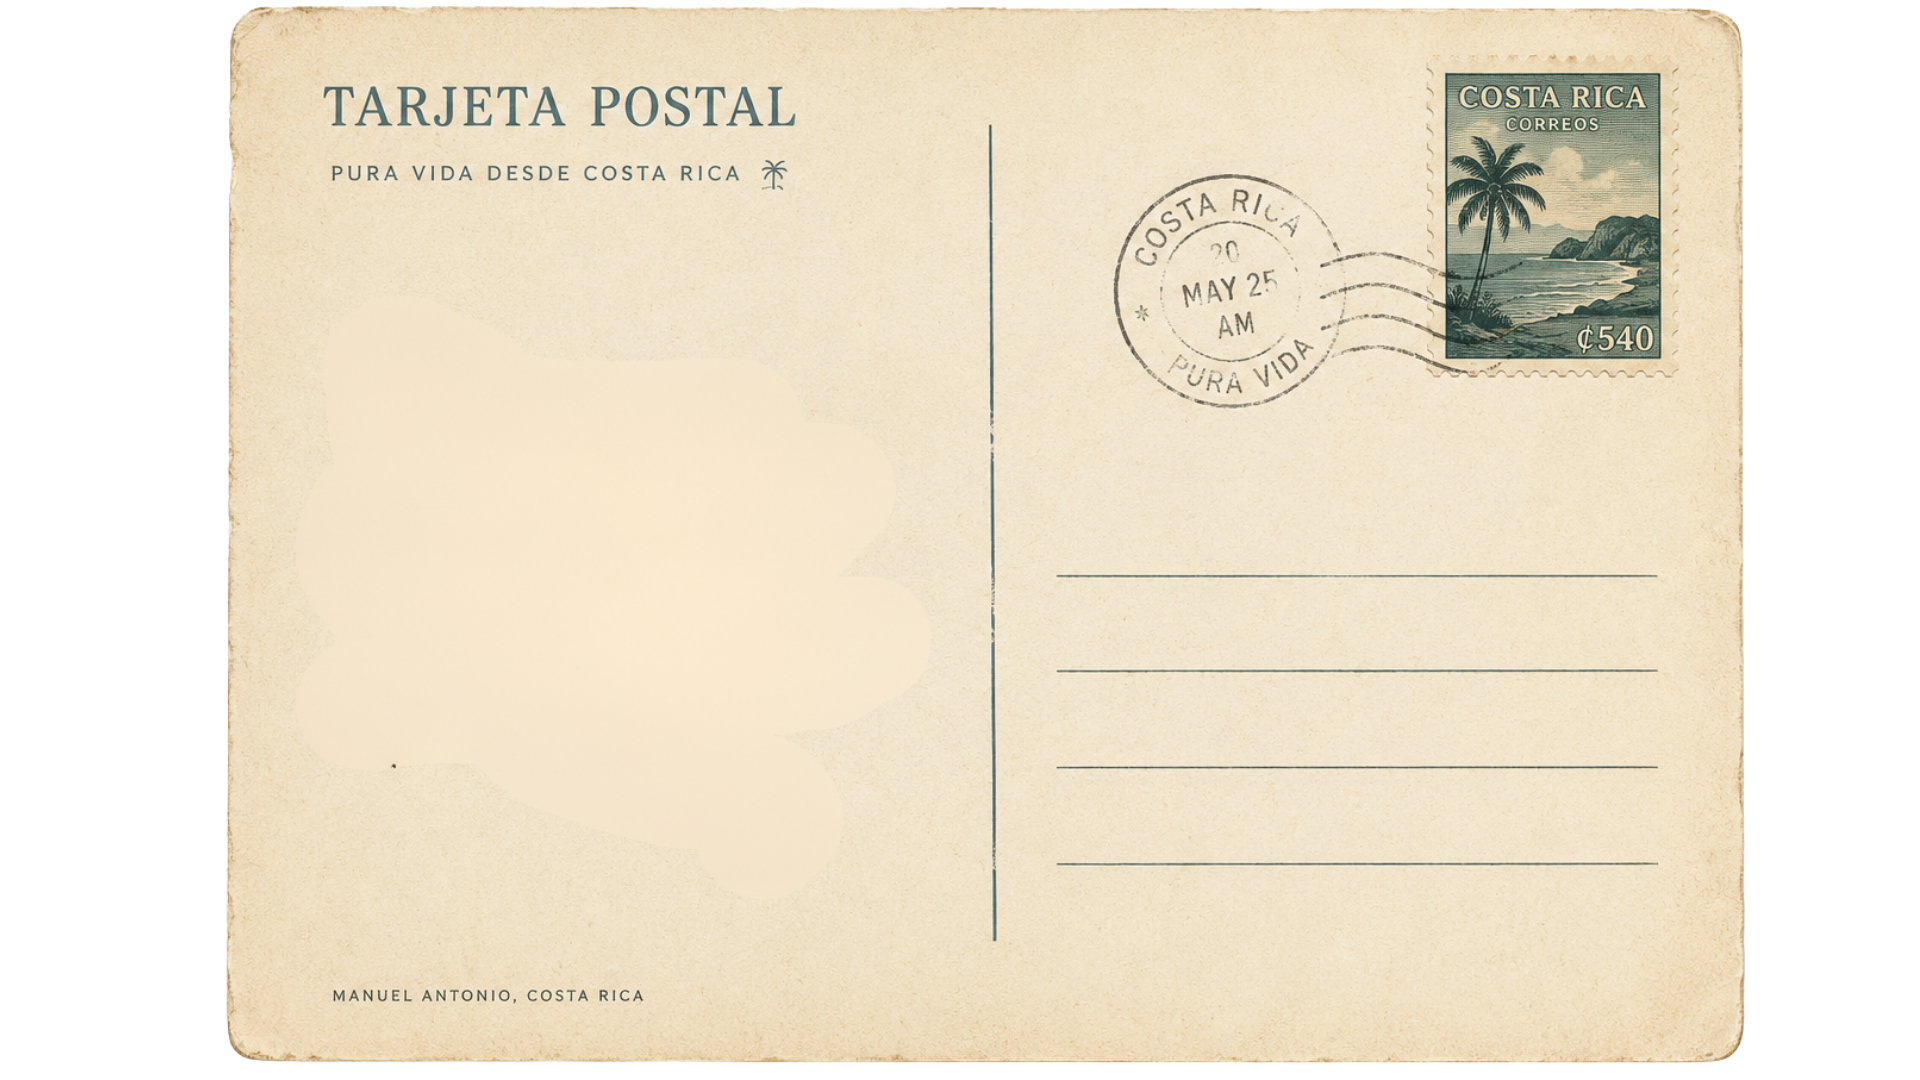
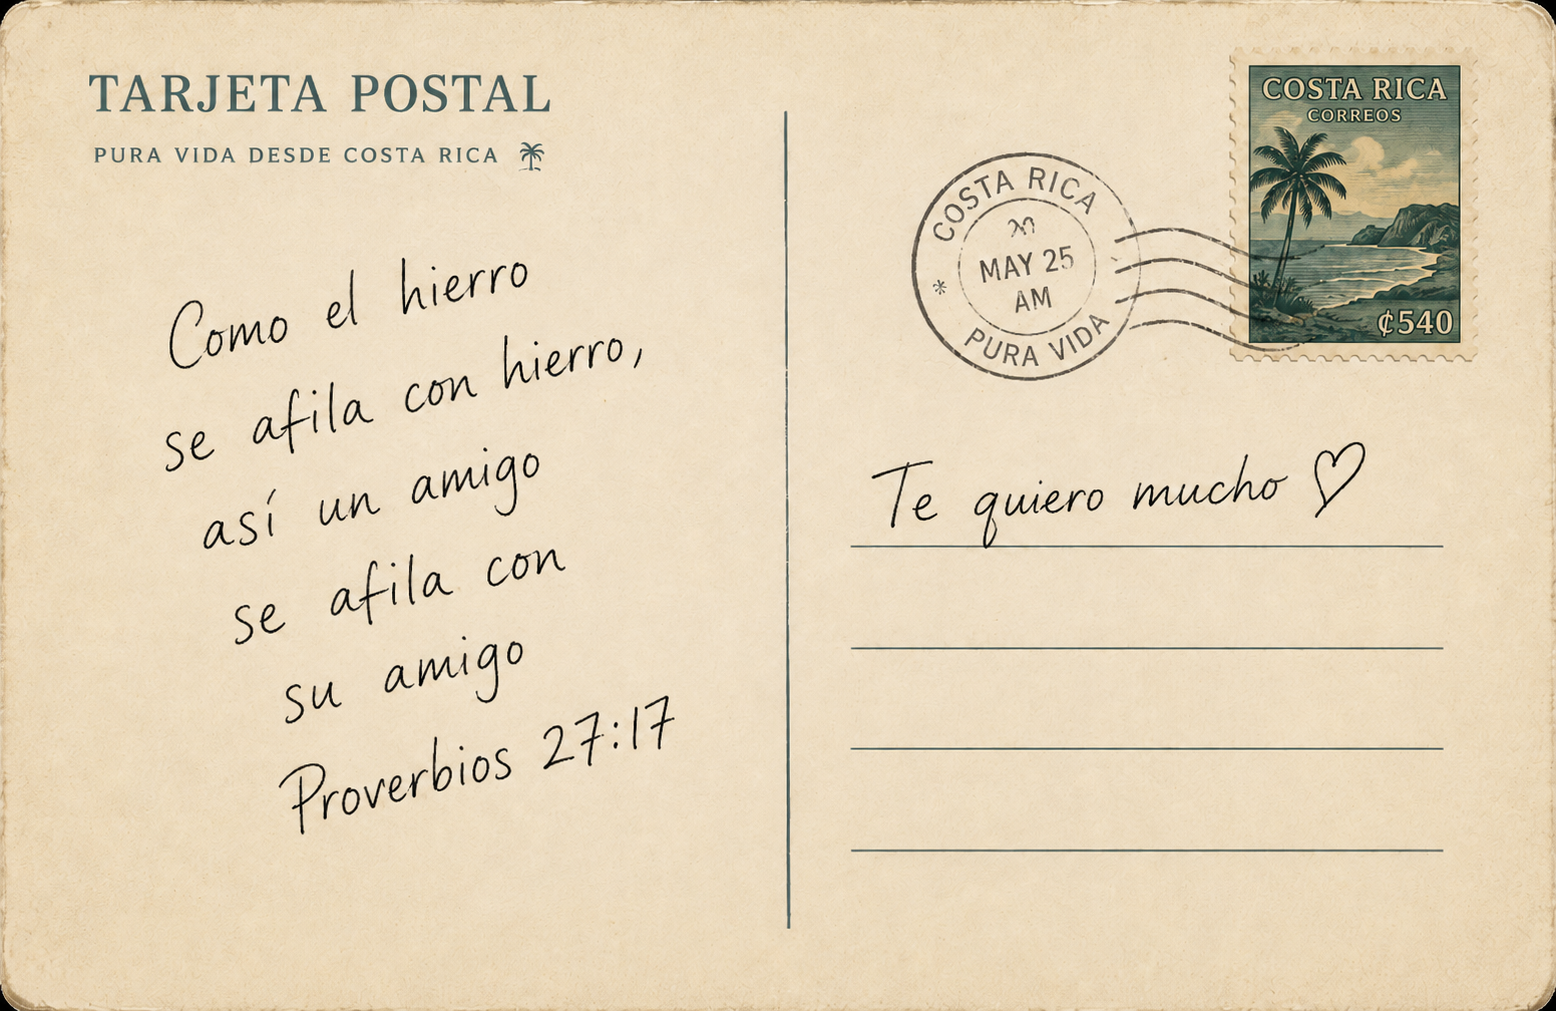
Add Costa Rica postcard backdrop and enable pinch zoom.
Layer a fixed travel background behind the flip card, place a signature on the reverse, and allow zoom while keeping only controls clickable.

diff --git a/src/styles/PostcardExperience.module.css b/src/styles/PostcardExperience.module.css
@@ -1,23 +1,60 @@
-.screen {
-  min-height: 100%;
+.postcardExperience {
+  position: relative;
+  width: 100%;
   height: 100%;
-  padding: 3.6rem 1.1rem 2rem;
+  min-height: 100%;
+  overflow: hidden;
+  isolation: isolate;
+  background: #2a3d36;
+}
+
+.postcardBackground {
+  position: absolute;
+  inset: 0;
+  z-index: 0;
+  width: 100%;
+  height: 100%;
+  object-fit: cover;
+  object-position: center bottom;
+  user-select: none;
+  pointer-events: none;
+  -webkit-user-drag: none;
+}
+
+.postcardGlow {
+  position: absolute;
+  inset: 0;
+  z-index: 0;
+  background:
+    radial-gradient(
+      circle at 50% 48%,
+      rgba(255, 247, 225, 0.3) 0%,
+      rgba(255, 247, 225, 0.13) 30%,
+      rgba(255, 247, 225, 0) 62%
+    );
+  pointer-events: none;
+}
+
+.postcardContent {
+  position: relative;
+  z-index: 1;
+  width: 100%;
+  height: 100%;
   display: flex;
-  flex-direction: column;
   align-items: center;
   justify-content: center;
-  background:
-    radial-gradient(ellipse at 30% 20%, rgba(197, 212, 200, 0.25), transparent 50%),
-    linear-gradient(180deg, #3a4f47 0%, #2a3d36 55%, #243430 100%);
-  position: relative;
-  overflow: hidden;
+  padding: 3.6rem 1.1rem 2rem;
 }
 
 .stage {
-  width: min(100%, 21rem);
+  width: min(94%, 460px);
   perspective: 1400px;
-  /* la sombra va aquí para no romper preserve-3d del flipper */
-  filter: drop-shadow(0 10px 22px rgba(10, 14, 12, 0.35));
+  /* sombra en el stage para no romper preserve-3d del flipper */
+  filter:
+    drop-shadow(0 2px 3px rgba(30, 38, 34, 0.18))
+    drop-shadow(0 10px 16px rgba(41, 53, 49, 0.22))
+    drop-shadow(0 22px 34px rgba(41, 53, 49, 0.28))
+    drop-shadow(0 4px 8px rgba(20, 24, 22, 0.16));
 }
 
 .flipper {
@@ -48,9 +85,14 @@
   background: #ebe2d0;
   transform-style: preserve-3d;
   -webkit-transform-style: preserve-3d;
+  box-shadow:
+    inset 0 1px 0 rgba(255, 255, 255, 0.35),
+    inset 0 -1px 0 rgba(40, 35, 28, 0.12),
+    inset 1px 0 0 rgba(255, 255, 255, 0.18),
+    inset -1px 0 0 rgba(40, 35, 28, 0.1);
 }
 
-.face img {
+.face img:not(.signature) {
   width: 100%;
   height: 100%;
   object-fit: cover;
@@ -59,6 +101,22 @@
   pointer-events: none;
   user-select: none;
   -webkit-user-drag: none;
+}
+
+.signature {
+  position: absolute !important;
+  right: 14%;
+  bottom: 11%;
+  z-index: 2;
+  width: clamp(76px, 27%, 102px) !important;
+  height: auto !important;
+  max-width: 102px;
+  object-fit: contain;
+  pointer-events: none;
+  user-select: none;
+  -webkit-user-drag: none;
+  opacity: 0.92;
+  mix-blend-mode: multiply;
 }
 
 .front {
@@ -73,6 +131,6 @@
 
 @media (prefers-reduced-motion: reduce) {
   .flipper {
-    transition: none;
+    transition-duration: 0.01ms;
   }
 }

diff --git a/src/components/PostcardExperience.jsx b/src/components/PostcardExperience.jsx
@@ -1,6 +1,8 @@
 import { useState } from 'react';
 import styles from '../styles/PostcardExperience.module.css';
 
+const POSTCARD_BACKGROUND = '/assets/postcard/fondo_postal_costa_rica.png';
+
 function BackButton({ onClick }) {
   return (
     <button type="button" className="back-home" onClick={onClick} aria-label="Volver al inicio">
@@ -17,24 +19,42 @@ export default function PostcardExperience({ letter, onBack }) {
   const backImage = letter.postcard.backImage ?? '/assets/postcard/postal_back.png';
 
   return (
-    <main className={`${styles.screen} screen-enter`}>
-      <BackButton onClick={onBack} />
+    <main className={`${styles.postcardExperience} screen-enter`}>
+      <img
+        src={POSTCARD_BACKGROUND}
+        alt=""
+        aria-hidden="true"
+        draggable={false}
+        className={styles.postcardBackground}
+      />
+      <div className={styles.postcardGlow} aria-hidden="true" />
 
-      <div className={styles.stage}>
-        <button
-          type="button"
-          className={`${styles.flipper} ${flipped ? styles.isFlipped : ''}`}
-          onClick={() => setFlipped((v) => !v)}
-          aria-label={flipped ? 'Ver frente de la postal' : 'Ver reverso de la postal'}
-        >
-          <div className={`${styles.face} ${styles.front}`}>
-            <img src={frontImage} alt="Frente de la postal" draggable={false} />
-          </div>
+      <div className={styles.postcardContent}>
+        <BackButton onClick={onBack} />
 
-          <div className={`${styles.face} ${styles.back}`}>
-            <img src={backImage} alt="Reverso de la postal" draggable={false} />
-          </div>
-        </button>
+        <div className={styles.stage}>
+          <button
+            type="button"
+            className={`${styles.flipper} ${flipped ? styles.isFlipped : ''}`}
+            onClick={() => setFlipped((v) => !v)}
+            aria-label={flipped ? 'Ver frente de la postal' : 'Ver reverso de la postal'}
+          >
+            <div className={`${styles.face} ${styles.front}`}>
+              <img src={frontImage} alt="Frente de la postal" draggable={false} />
+            </div>
+
+            <div className={`${styles.face} ${styles.back}`}>
+              <img src={backImage} alt="Reverso de la postal" draggable={false} />
+              <img
+                className={styles.signature}
+                src={letter.letter?.signatureImage ?? '/assets/letter/firma_artista.png'}
+                alt=""
+                aria-hidden="true"
+                draggable={false}
+              />
+            </div>
+          </button>
+        </div>
       </div>
     </main>
   );

diff --git a/src/styles/global.css b/src/styles/global.css
@@ -66,6 +66,7 @@ body,
 html {
   -webkit-tap-highlight-color: transparent;
   text-size-adjust: 100%;
+  -webkit-text-size-adjust: 100%;
 }
 
 body {
@@ -75,19 +76,35 @@ body {
   line-height: 1.5;
   overflow-x: hidden;
   -webkit-font-smoothing: antialiased;
+  user-select: none;
+  -webkit-user-select: none;
+  -webkit-touch-callout: none;
 }
 
-button {
+button,
+a,
+[role='button'] {
   font: inherit;
   border: none;
   background: none;
   cursor: pointer;
   color: inherit;
+  -webkit-user-select: none;
+  user-select: none;
+  -webkit-touch-callout: none;
 }
 
-img {
+button {
+  touch-action: manipulation;
+}
+
+img,
+svg {
   max-width: 100%;
   display: block;
+  pointer-events: none;
+  user-select: none;
+  -webkit-user-drag: none;
 }
 
 /* Textura de papel compartida (noise SVG inline) */

diff --git a/index.html b/index.html
@@ -3,7 +3,7 @@
   <head>
     <meta charset="UTF-8" />
     <link rel="icon" type="image/svg+xml" href="/favicon.svg" />
-    <meta name="viewport" content="width=device-width, initial-scale=1.0, maximum-scale=1.0, user-scalable=no" />
+    <meta name="viewport" content="width=device-width, initial-scale=1, viewport-fit=cover" />
     <meta name="theme-color" content="#2a3d36" />
     <title>Carta digital</title>
     <link rel="preconnect" href="https://fonts.googleapis.com" />

diff --git a/src/styles/LetterPage.module.css b/src/styles/LetterPage.module.css
@@ -79,7 +79,7 @@
   font-size: 11px;
   line-height: 1.55;
   color: #2c2a26;
-  user-select: text;
+  user-select: none;
 }
 
 .closing {
